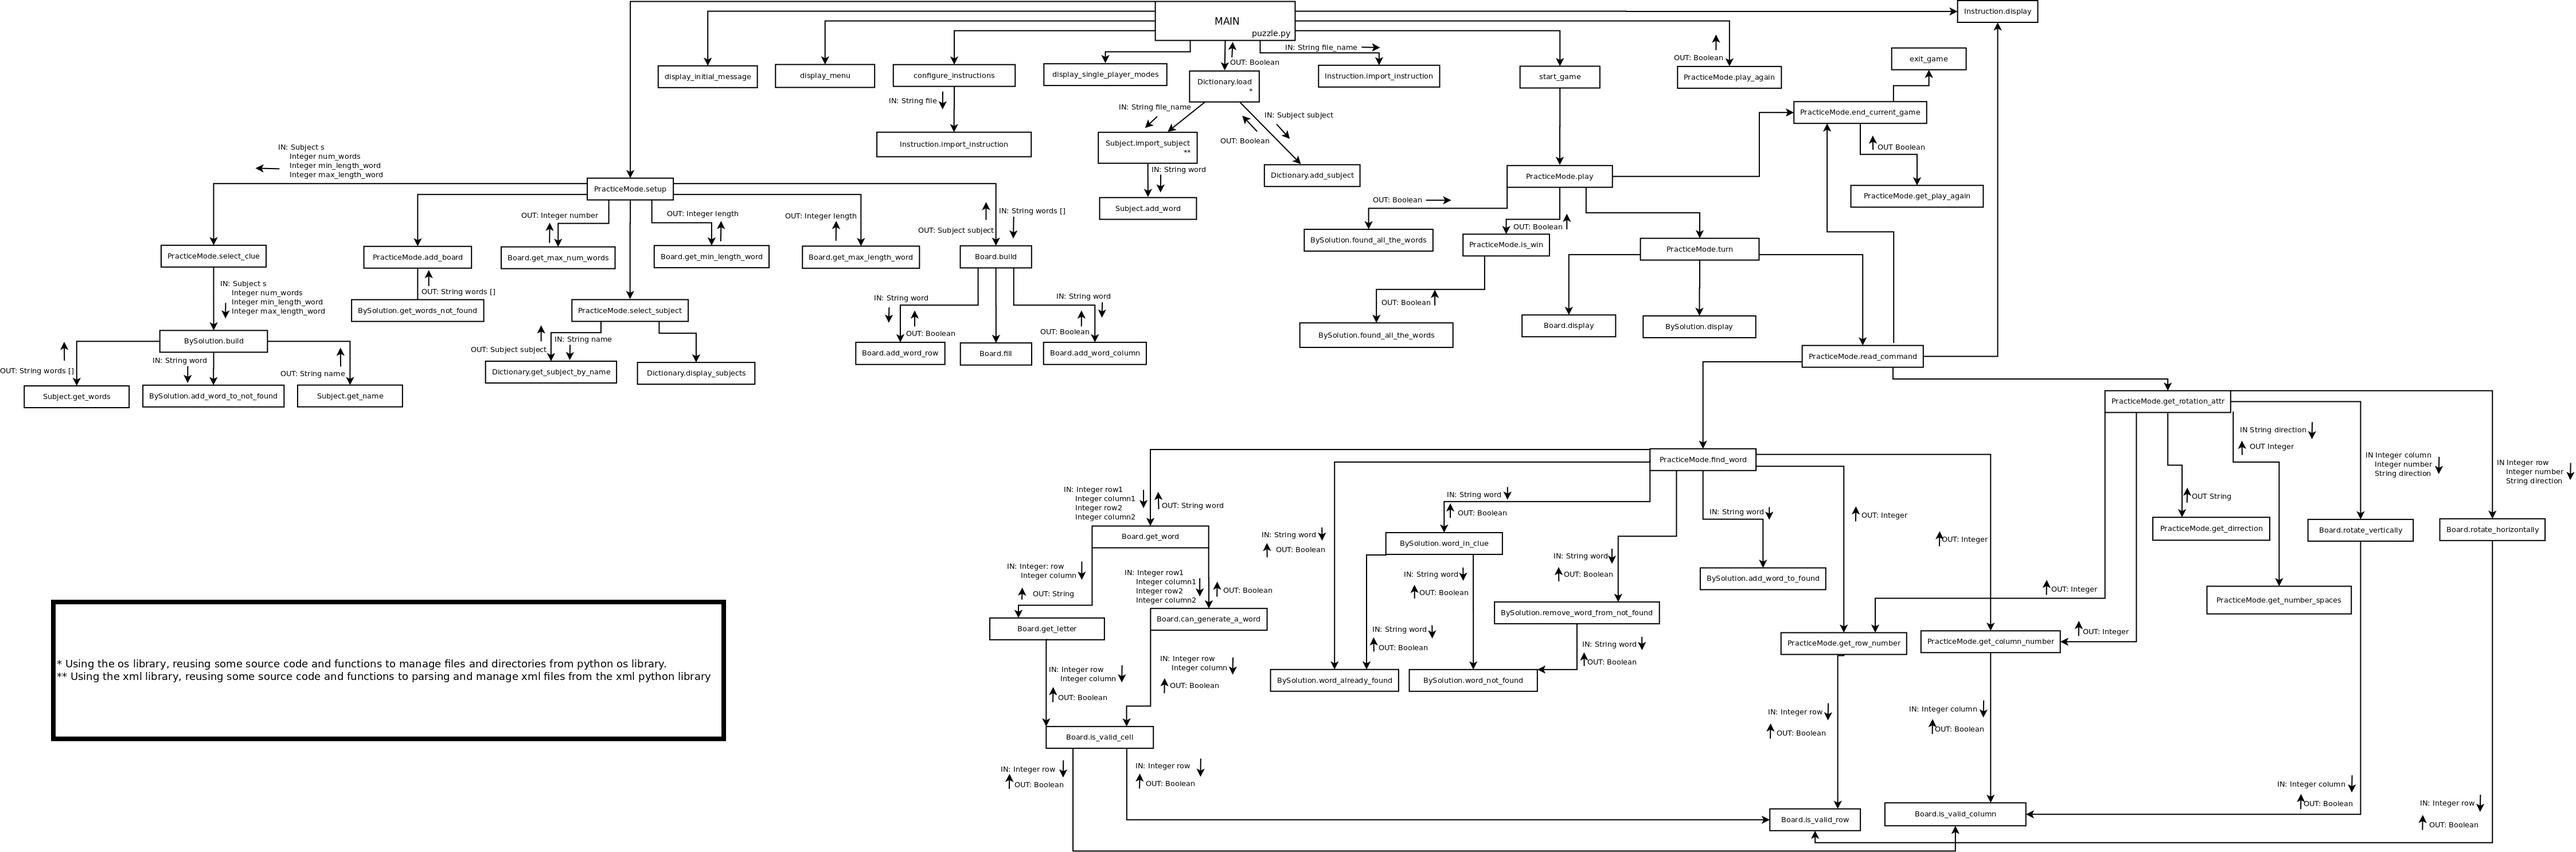
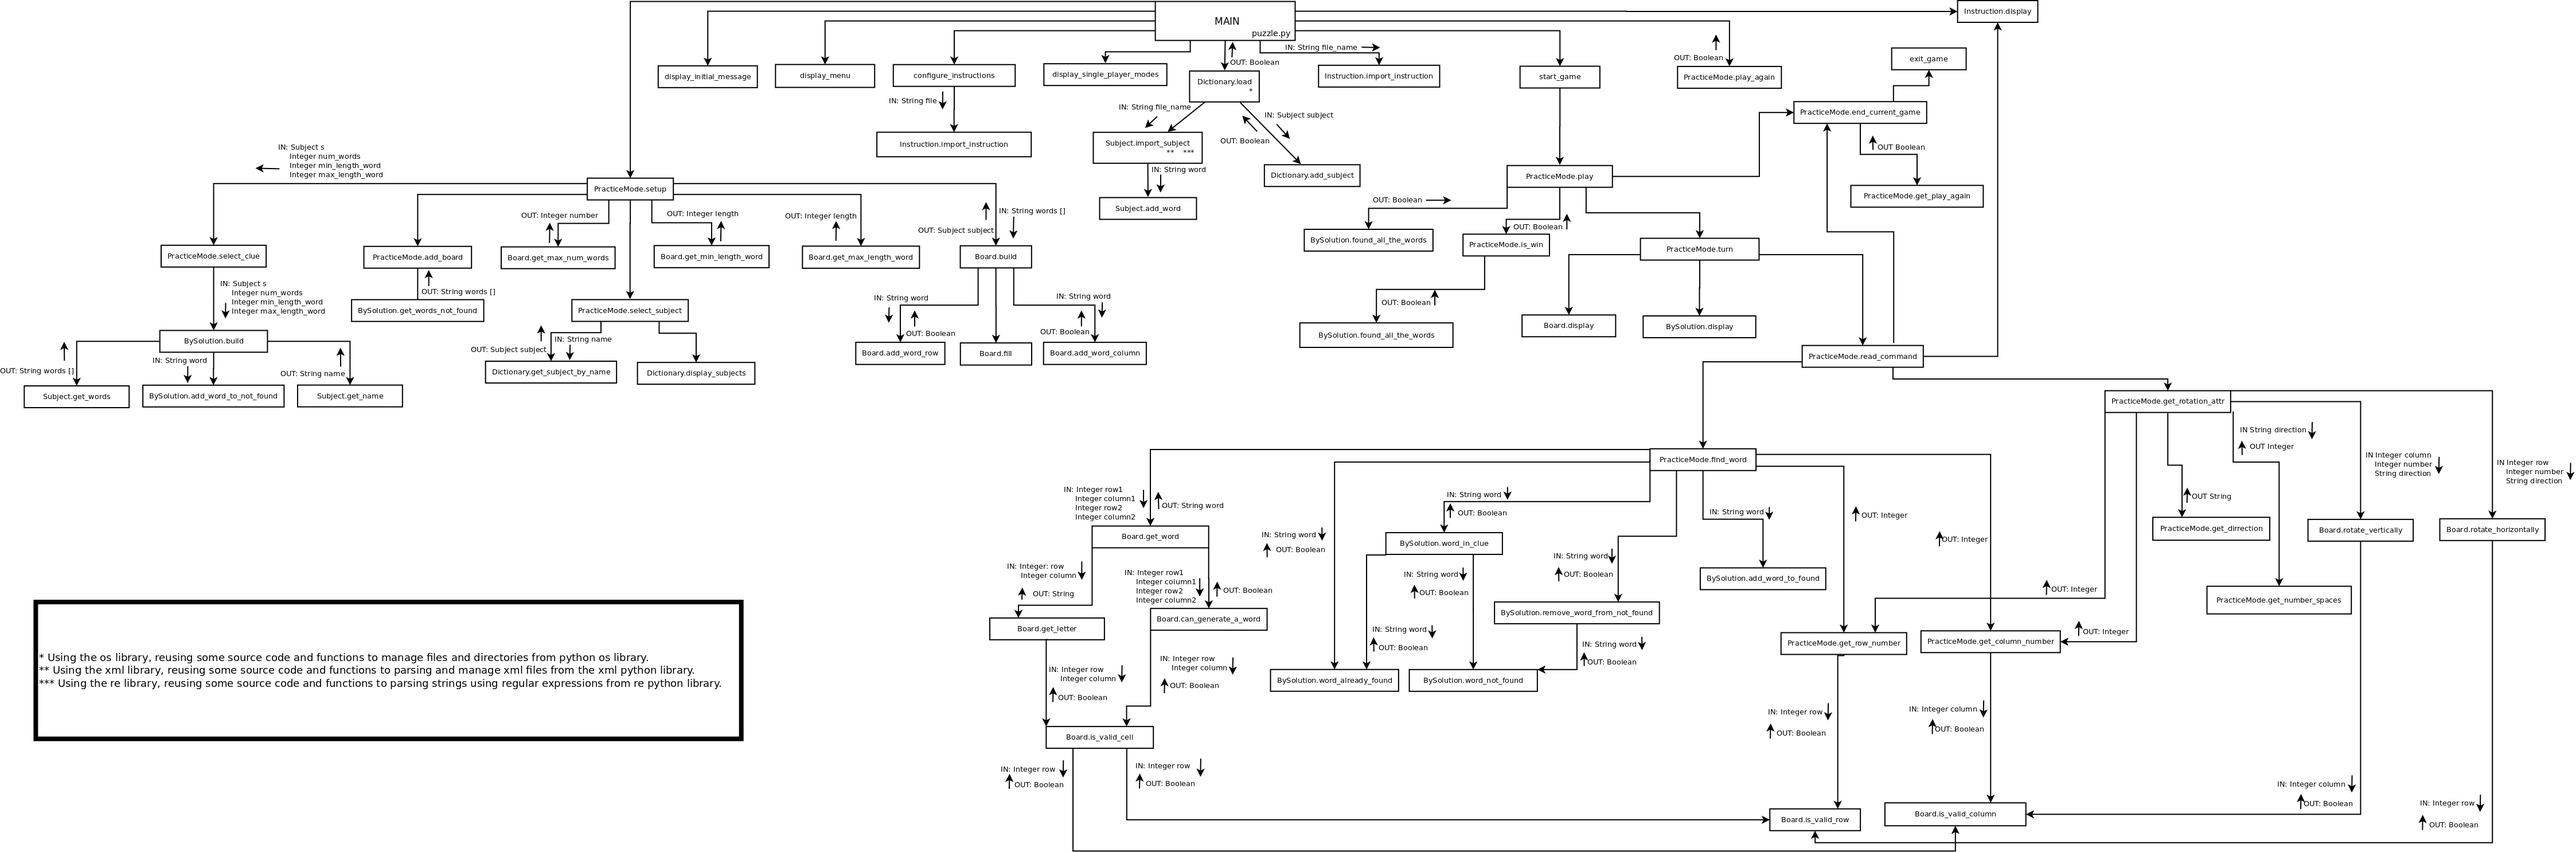
fixing importing bugs

Changed region(s): [[0.0, 0.712, 0.3117, 0.8668]]

diff --git a/puzzle.py b/puzzle.py
@@ -1,7 +1,7 @@
 from random import shuffle, randint, sample
 from string import ascii_uppercase
 import xml.etree.ElementTree as ET
-import glob, os, time
+import glob, os, time, re
 
 
 commands = ["help","exit","rotate","find"]
@@ -11,6 +11,7 @@ messages = {
 			"already_found_word":" was already found.",
 			"choose_subject":"Please, choose a subject...\n",
 			"error": "\nAn error occurred. Leaving the game.\n",
+			"error_instruction": "\nAn error occurred. There is not instructions file or it has a wrong name. Leaving the game.\n",
 			"enter_to_continue":"\nEnter to Continue.",
 			"exit_game": "\nLeaving the game.\n",
 			"final_cell": "\nPlease, insert the coordenates of the final cell:",
@@ -60,6 +61,7 @@ class Instruction:
 			self.instruction = f.read()
 		except:
 			print(messages["error"])
+			exit()
 
 	def display(self):
 		print(self.instruction)
@@ -528,8 +530,12 @@ class Subject:
 			for child in root:
 				if child. tag == "word":
 					new_word = child.text
-					self.add_word(new_word)
-					words += 1
+					# Parsing a string using Regular Expression
+					# re from Python Regular expression operations
+					# Source code: https://docs.python.org/3.4/library/re.html
+					if re.match('^[a-zA-Z]+$', new_word) is not None:
+						self.add_word(new_word)
+						words += 1
 		else:
 			return False
 		return words >= 12
